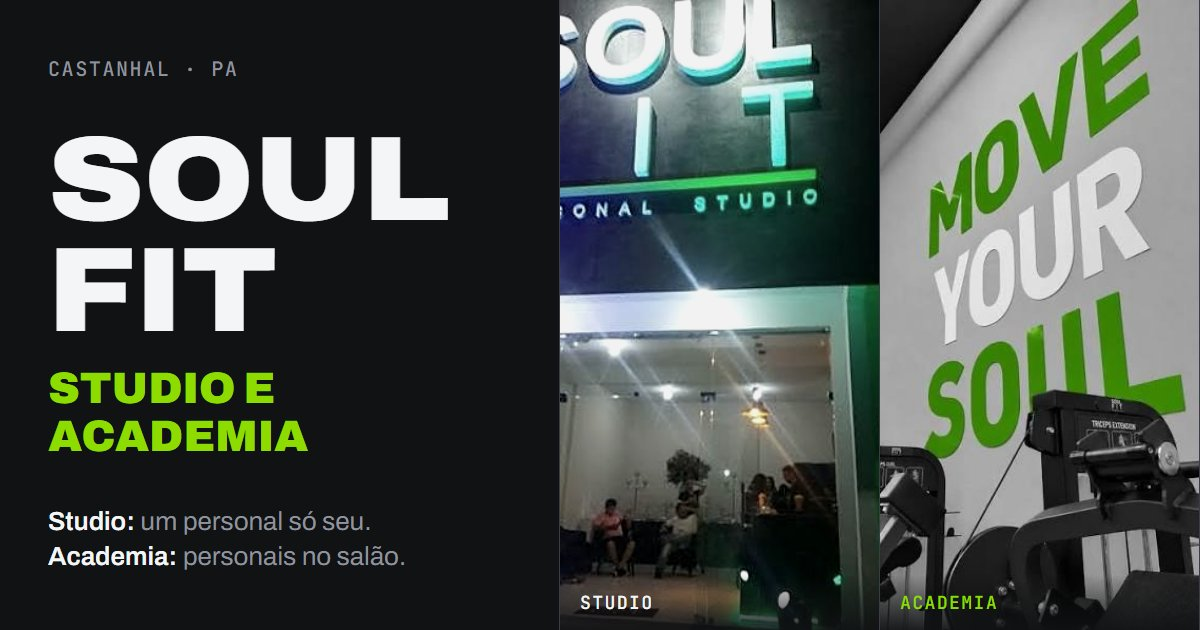
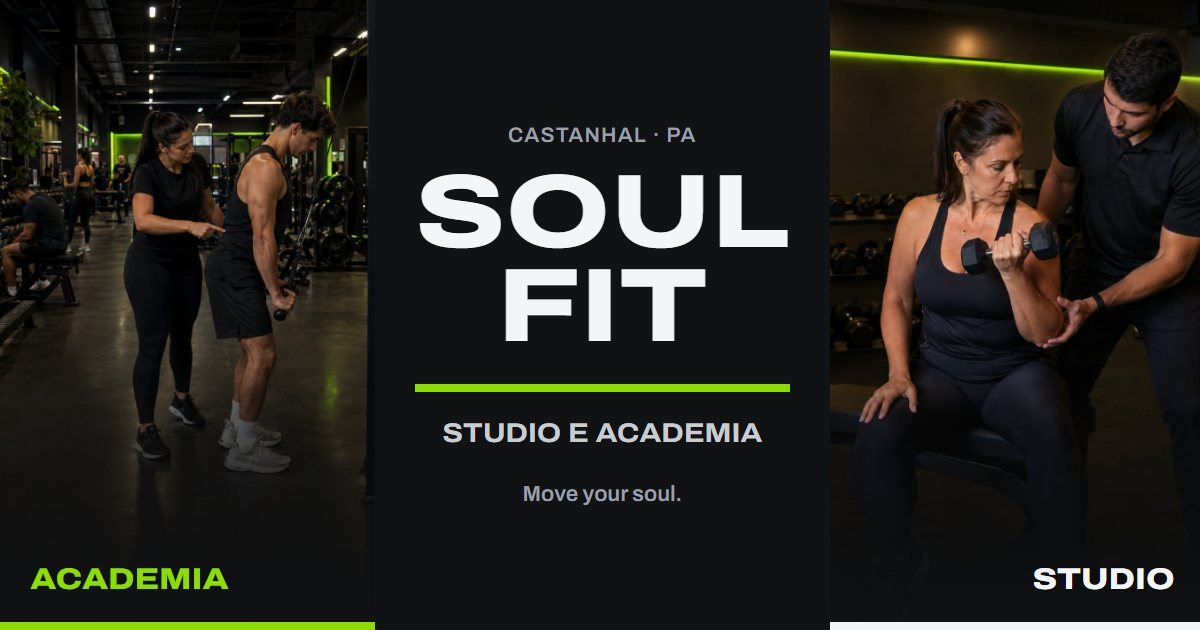
Anima o site e refaz a capa de compartilhamento
- Capa do link (WhatsApp etc.) com as fotos novas dos painéis e a marca
  no centro, que é o que sobra no recorte quadrado do WhatsApp.
  ?v=2 na og:image pra forçar a troca no cache dos apps
- Entrada do topo ao abrir, parallax leve nas fotos, seções aparecendo
  ao rolar, "Move your soul." subindo com a linha verde se desenhando,
  botões afundando no toque e dúvidas abrindo deslizando
- Movimento reduzido agora mantém os fades em vez de cortar tudo

diff --git a/public/index.html b/public/index.html
@@ -12,13 +12,14 @@
 <meta property="og:url" content="https://soulfitlanding.lucasfigueiredo-bsilva.workers.dev/">
 <meta property="og:title" content="Soul Fit Castanhal · Studio e Academia">
 <meta property="og:description" content="Studio: um personal só seu o treino todo. Academia: personais orientando no salão. Escolha sua unidade e fale com a equipe no WhatsApp.">
-<meta property="og:image" content="https://soulfitlanding.lucasfigueiredo-bsilva.workers.dev/assets/og-soulfit.jpg">
+<meta property="og:image" content="https://soulfitlanding.lucasfigueiredo-bsilva.workers.dev/assets/og-soulfit.jpg?v=2">
 <meta property="og:image:type" content="image/jpeg">
 <meta property="og:image:width" content="1200">
 <meta property="og:image:height" content="630">
-<meta property="og:image:alt" content="Soul Fit Castanhal: fachada do Studio à noite e parede da Academia com a frase Move your soul">
+<meta property="og:image:alt" content="Soul Fit Castanhal, Studio e Academia: personais acompanhando alunos no salão da Academia e no Studio">
 <meta name="twitter:card" content="summary_large_image">
 <meta name="theme-color" content="#111214">
+<script>document.documentElement.classList.add("js")</script>
 <link rel="icon" type="image/svg+xml" href="assets/logo-academia.svg">
 <link rel="preconnect" href="https://fonts.googleapis.com">
 <link rel="preconnect" href="https://fonts.gstatic.com" crossorigin>
@@ -46,6 +47,9 @@
 
   --gutter: clamp(20px, 4vw, 56px);
   --secao: clamp(80px, 11vw, 152px);
+
+  --ease-out: cubic-bezier(0.23, 1, 0.32, 1);       /* entradas */
+  --ease-in-out: cubic-bezier(0.77, 0, 0.175, 1);   /* movimento na tela (linha verde) */
 }
 
 *, *::before, *::after { box-sizing: border-box; }
@@ -100,7 +104,7 @@ ul { padding: 0; list-style: none; }
   font: 700 1rem/1 var(--f);
   text-decoration: none;
   border-radius: 2px;
-  transition: background-color .2s ease, color .2s ease;
+  transition: background-color .2s ease, color .2s ease, transform .16s var(--ease-out);
 }
 .btn-soul { background: var(--soul); color: var(--asfalto); }
 .btn-soul:hover { background: var(--gelo); }
@@ -121,7 +125,7 @@ ul { padding: 0; list-style: none; }
 .logo-studio { color: var(--gelo); --logo-linha: var(--soul); --logo-sub: #C9CCD1; }
 .marca .logo { height: 42px; width: auto; aspect-ratio: 1630 / 1310; }
 .nav { display: flex; align-items: center; gap: 32px; }
-.nav a:not(.btn) { text-decoration: none; font-weight: 600; font-size: .95rem; padding-block: 6px; border-bottom: 2px solid transparent; }
+.nav a:not(.btn) { text-decoration: none; font-weight: 600; font-size: .95rem; padding-block: 6px; border-bottom: 2px solid transparent; transition: border-color .2s ease; }
 .nav a:not(.btn):hover { border-bottom-color: var(--soul); }
 .nav .btn { min-height: 44px; padding: 0 20px; font-size: .95rem; }
 
@@ -221,7 +225,7 @@ ul { padding: 0; list-style: none; }
   content: ""; flex: none; width: 14px; height: 14px;
   background: linear-gradient(var(--soul), var(--soul)) center / 100% 2px no-repeat,
               linear-gradient(var(--soul), var(--soul)) center / 2px 100% no-repeat;
-  transition: transform .25s ease;
+  transition: transform .25s var(--ease-out);
 }
 .faq details[open] summary::after { transform: rotate(45deg); }
 .faq p { padding-bottom: 24px; color: var(--cinza); max-width: 62ch; }
@@ -269,9 +273,68 @@ ul { padding: 0; list-style: none; }
   .c-acao address .link { display: block; margin: 4px 0 0; width: fit-content; }
   .nav .btn { width: auto; }
 }
+
+/* ---------- Animações ----------
+   Calmas: só opacidade e transform, entrando uma vez.
+   Quem pede menos movimento no celular vê só os fades, sem deslocamento.
+   O que está marcado com .revela aparece ao rolar (o script no fim liga .visivel). */
+
+/* Entrada do topo, ao abrir a página */
+@keyframes sobe { from { opacity: 0; transform: translateY(20px); } }
+@keyframes surge { from { opacity: 0; } }
+@keyframes foto-entra { from { scale: 1.12; } }
+
+/* Ao rolar */
+.js .revela { opacity: 0; transition: opacity .7s var(--ease-out), transform .7s var(--ease-out); transition-delay: var(--atraso, 0ms); }
+.js .revela.visivel { opacity: 1; transform: none; }
+
+@media (prefers-reduced-motion: no-preference) {
+  .escolha-cabeca > * { animation: sobe .7s var(--ease-out) backwards; }
+  .escolha-cabeca > p { animation-delay: 60ms; }
+  .painel { animation: sobe .8s var(--ease-out) 120ms backwards; }
+  .painel-studio { animation-delay: 200ms; }
+  .painel-corpo { animation: sobe .8s var(--ease-out) 300ms backwards; }
+  .painel-studio .painel-corpo { animation-delay: 380ms; }
+  .painel-foto { animation: foto-entra 1.6s var(--ease-out) backwards; }
+
+  /* Foto do topo desce mais devagar que a página ao rolar (parallax leve).
+     A escala 1.08 cobre o deslocamento sem mostrar borda. */
+  @supports (animation-timeline: view()) {
+    .painel-foto {
+      scale: 1.08;
+      animation: foto-entra 1.6s var(--ease-out) backwards, foto-desliza linear both;
+      animation-timeline: auto, view();
+      animation-range: normal, exit;
+    }
+  }
+  @keyframes foto-desliza { to { translate: 0 3.5%; } }
+
+  .js .revela:not(.visivel) { transform: translateY(24px); }
+
+  /* "Move your soul." sobe de dentro da linha verde, e a linha se desenha da esquerda */
+  .js .mega.revela { transition: opacity .9s var(--ease-out), transform .9s var(--ease-out), clip-path .9s var(--ease-out); clip-path: inset(-25% 0 -25% 0); }
+  .js .mega.revela:not(.visivel) { transform: translateY(18%); clip-path: inset(125% 0 -25% 0); }
+  .js .mega.revela + .linha-soul { transform-origin: left; transition: transform 1s var(--ease-in-out) .15s; }
+  .js .mega.revela:not(.visivel) + .linha-soul { transform: scaleX(0); }
+
+  /* Resposta ao toque/clique */
+  .btn:active { transform: scale(.97); }
+
+  /* Dúvidas abrem deslizando (navegadores que ainda não suportam abrem na hora) */
+  :root { interpolate-size: allow-keywords; }
+  .faq details::details-content { block-size: 0; overflow: hidden; transition: block-size .3s var(--ease-out), content-visibility .3s allow-discrete; }
+  .faq details[open]::details-content { block-size: auto; }
+}
+
+/* Zoom leve na foto ao passar o mouse (só com mouse: no toque o hover dispara sozinho) */
+@media (prefers-reduced-motion: no-preference) and (hover: hover) and (pointer: fine) {
+  .painel-foto { transition: transform .8s var(--ease-out); }
+  .painel:hover .painel-foto { transform: scale(1.03); }
+}
+
 @media (prefers-reduced-motion: reduce) {
   html { scroll-behavior: auto; }
-  *, *::before, *::after { transition: none !important; animation: none !important; }
+  .escolha-cabeca > *, .painel { animation: surge .6s ease backwards; }
 }
 </style>
 </head>
@@ -338,10 +401,10 @@ ul { padding: 0; list-style: none; }
   <!-- COMO FUNCIONA: as duas unidades lado a lado -->
   <section class="comparar" aria-labelledby="h-comparar">
     <div class="wrap">
-      <h2 id="h-comparar" class="comparar-titulo">Como funciona cada unidade.</h2>
+      <h2 id="h-comparar" class="comparar-titulo revela">Como funciona cada unidade.</h2>
       <div class="colunas">
 
-        <article class="coluna" id="academia" aria-labelledby="h-academia">
+        <article class="coluna revela" id="academia" aria-labelledby="h-academia">
           <div class="c-cabeca">
             <p class="unidade-nome">Academia</p>
             <h3 id="h-academia" class="h2">Seu ritmo, com orientação por perto.</h3>
@@ -368,7 +431,7 @@ ul { padding: 0; list-style: none; }
           </div>
         </article>
 
-        <article class="coluna claro" id="studio" aria-labelledby="h-studio">
+        <article class="coluna claro revela" style="--atraso: 90ms" id="studio" aria-labelledby="h-studio">
           <div class="c-cabeca">
             <p class="unidade-nome">Studio</p>
             <h3 id="h-studio" class="h2">Atenção total, do começo ao fim.</h3>
@@ -404,11 +467,11 @@ ul { padding: 0; list-style: none; }
   <section class="secao duvidas" id="duvidas" aria-labelledby="h-duvidas">
     <div class="wrap grade">
       <div class="col-a">
-        <h2 id="h-duvidas" class="h2">Dúvidas frequentes</h2>
+        <h2 id="h-duvidas" class="h2 revela">Dúvidas frequentes</h2>
       </div>
       <div class="col-b">
         <div>
-          <div class="faq">
+          <div class="faq revela" style="--atraso: 90ms">
             <details>
               <summary>Nunca treinei. Vou ficar perdido?</summary>
               <p>Não. As duas unidades têm profissionais para orientar você. No Studio, um personal fica só com você o treino todo. Na Academia, os personais do salão ajudam com os aparelhos, a execução e o treino.</p>
@@ -427,7 +490,7 @@ ul { padding: 0; list-style: none; }
               <a class="link faq-link" data-wa="pilates" data-evento="cta_pilates" href="https://wa.me/5591983542792">Perguntar sobre Pilates</a>
             </details>
           </div>
-          <div class="ainda">
+          <div class="ainda revela">
             <p>Ainda em dúvida? A equipe ajuda você a decidir.</p>
             <a class="btn btn-soul" data-wa="duvida" data-evento="cta_duvidas" href="https://wa.me/5591983542792">Me ajudem a escolher</a>
           </div>
@@ -440,9 +503,9 @@ ul { padding: 0; list-style: none; }
 <!-- FINAL E CONTATO -->
 <footer class="final" id="contato">
   <div class="wrap">
-    <p class="mega">Move your soul.</p>
+    <p class="mega revela">Move your soul.</p>
     <div class="linha-soul" aria-hidden="true"></div>
-    <div class="contato">
+    <div class="contato revela" style="--atraso: 200ms">
       <div class="wa">
         <h2 class="h3">WhatsApp das duas unidades</h2>
         <p class="num">(91) 98354-2792</p>
@@ -484,6 +547,23 @@ ul { padding: 0; list-style: none; }
       if (window.dataLayer) window.dataLayer.push({ event: "cta_whatsapp", cta: link.dataset.evento });
     });
   });
+})();
+
+// Aparece ao rolar: liga .visivel uma vez só, quando o elemento entra na tela
+(function () {
+  var alvos = document.querySelectorAll(".revela");
+  if (!("IntersectionObserver" in window)) {
+    alvos.forEach(function (el) { el.classList.add("visivel"); });
+    return;
+  }
+  var obs = new IntersectionObserver(function (entradas) {
+    entradas.forEach(function (e) {
+      if (!e.isIntersecting) return;
+      e.target.classList.add("visivel");
+      obs.unobserve(e.target);
+    });
+  }, { rootMargin: "0px 0px -10% 0px" });
+  alvos.forEach(function (el) { obs.observe(el); });
 })();
 </script>
 </body>
